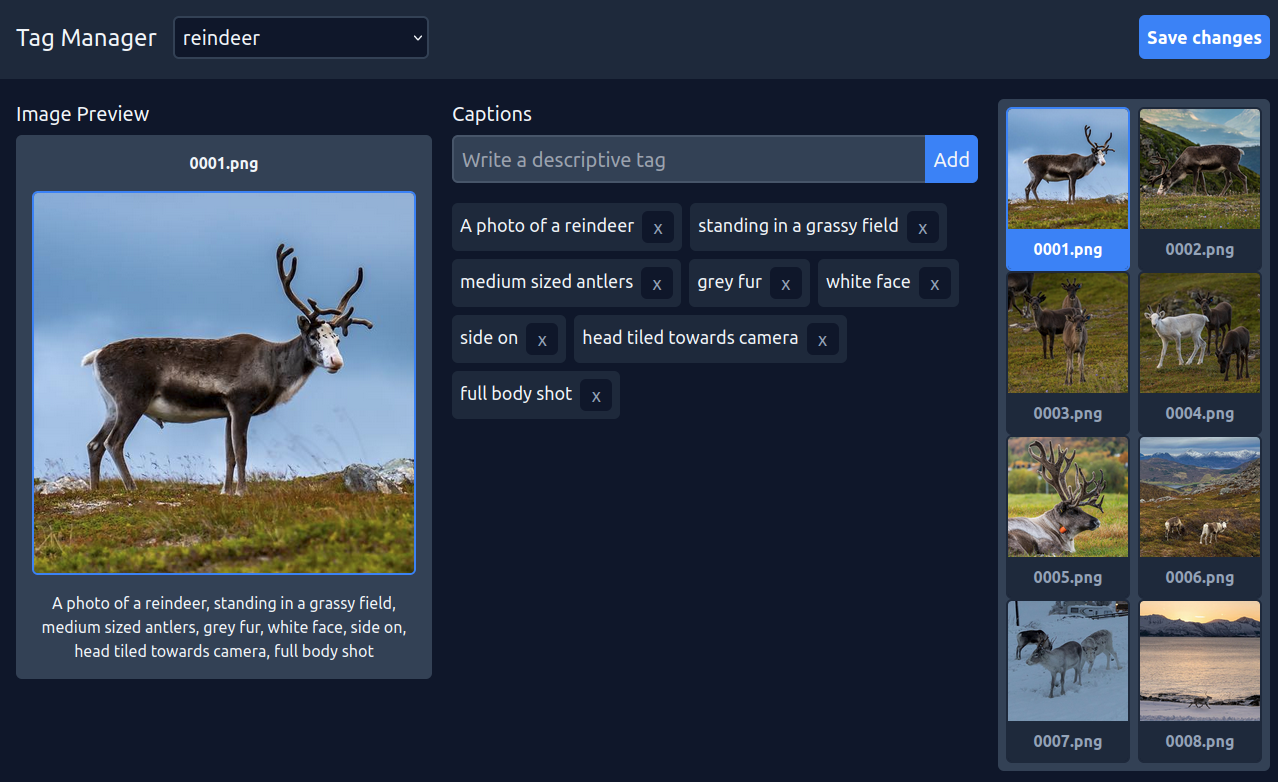
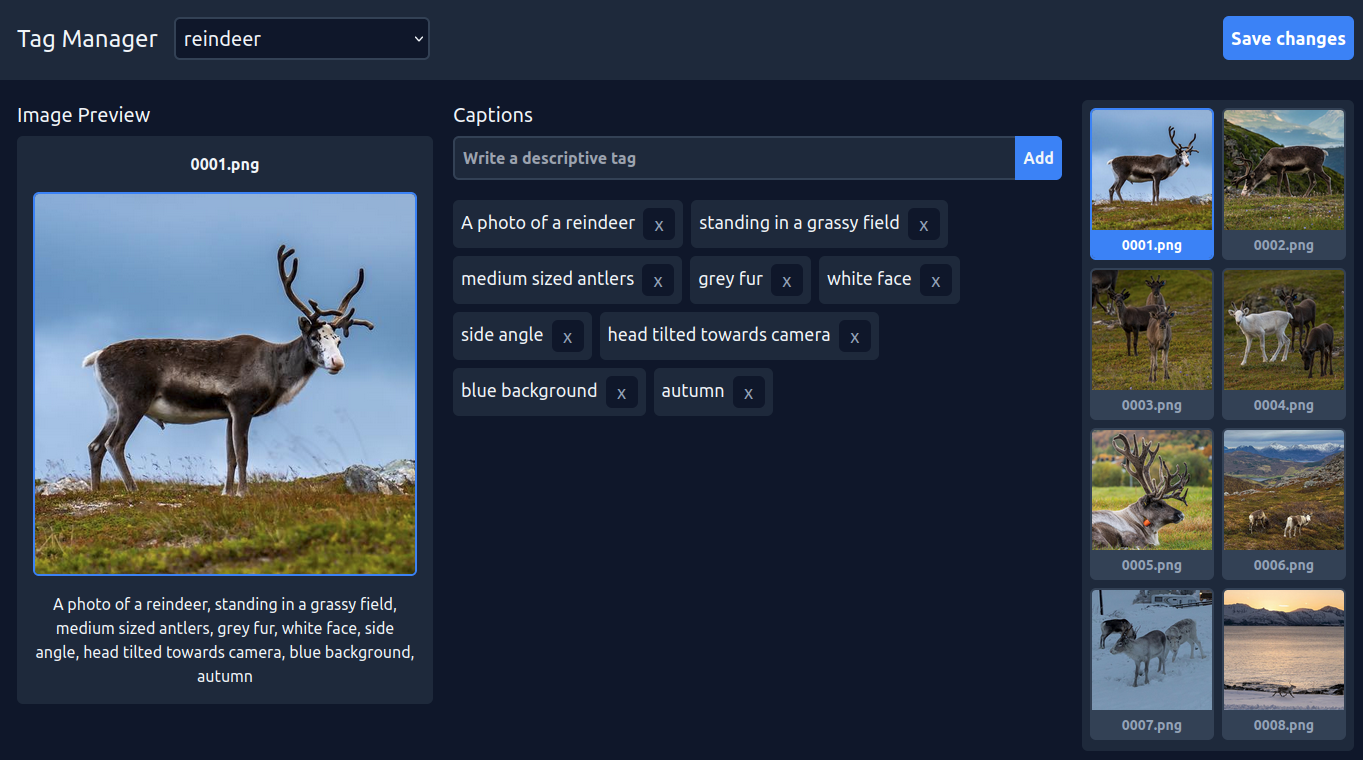
:lipstick: Fix styling consistency

diff --git a/app/src/components/ImageGrid.vue b/app/src/components/ImageGrid.vue
@@ -12,16 +12,16 @@ defineProps<Props>()
 
 <template>
   <div
-    class="bg-slate-700 flex flex-col rounded-md overflow-x-scroll xl:overflow-x-none xl:overflow-y-scroll p-2"
+    class="bg-slate-800 flex flex-col rounded-md overflow-x-scroll xl:overflow-x-none xl:overflow-y-scroll p-2"
   >
     <div
-      class="flex xl:grid xl:grid-cols-2 min-h-min w-48 xl:w-64 gap-x-2 rounded-md"
+      class="flex xl:grid xl:grid-cols-2 min-h-min w-48 xl:w-64 gap-2 rounded-md"
     >
       <div
         v-for="image in images"
-        class="tm-ig-image min-w-full bg-slate-900 flex flex-col cursor-pointer border-2 rounded-md overflow-hidden items-center justify-center"
+        class="tm-ig-image min-w-full bg-slate-700 flex flex-col cursor-pointer border-2 rounded-md overflow-hidden items-center justify-center"
         :class="{
-          'border-slate-800 hover:border-slate-600':
+          'border-slate-700 hover:border-slate-600':
             selectedImage?.filename !== image.filename,
           'border-blue-500': selectedImage?.filename === image.filename,
         }"
@@ -29,9 +29,9 @@ defineProps<Props>()
       >
         <img class="max-w-48 max-h-48" :src="image.url" :alt="image.filename" />
         <span
-          class="w-full font-bold text-center py-2"
+          class="w-full font-bold text-sm text-center py-1"
           :class="{
-            'bg-slate-800 text-slate-400':
+            'bg-slate-700 text-slate-400':
               selectedImage?.filename !== image.filename,
             'bg-blue-500 text-white':
               selectedImage?.filename === image.filename,

diff --git a/app/src/components/CaptionManager.vue b/app/src/components/CaptionManager.vue
@@ -37,12 +37,12 @@ const onAddCaptionFieldKeyUp = (event: KeyboardEvent) => {
           $emit('update:modelValue', ($event.target as HTMLInputElement).value)
         "
         type="text"
-        class="flex-1 p-2 text-xl bg-slate-700 border-2 border-r-0 border-slate-700 focus:border-blue-500 hover:border-slate-600 rounded-tl-md rounded-bl-md w-64 outline-none"
+        class="flex-1 p-2 font-bold text-md bg-slate-800 border-2 border-r-0 border-slate-700 focus:border-blue-500 hover:border-slate-600 rounded-tl-md rounded-bl-md w-64 outline-none"
         placeholder="Write a descriptive tag"
       />
       <button
         @click="() => addCaption(modelValue)"
-        class="bg-blue-500 text-xl p-2 rounded-tr-md rounded-br-md"
+        class="bg-blue-500 font-bold text-md p-2 rounded-tr-md rounded-br-md"
       >
         Add
       </button>

diff --git a/app/src/components/ImagePreview.vue b/app/src/components/ImagePreview.vue
@@ -10,7 +10,7 @@ defineProps<Props>()
 
 <template>
   <div class="flex flex-col items-center text-center">
-    <div class="flex flex-col gap-y-4 bg-slate-700 rounded-md p-4">
+    <div class="flex flex-col gap-y-4 bg-slate-800 rounded-md p-4">
       <span class="font-bold"
         >{{ image.filename }}<span v-if="image.captions?.length"></span
       ></span>
